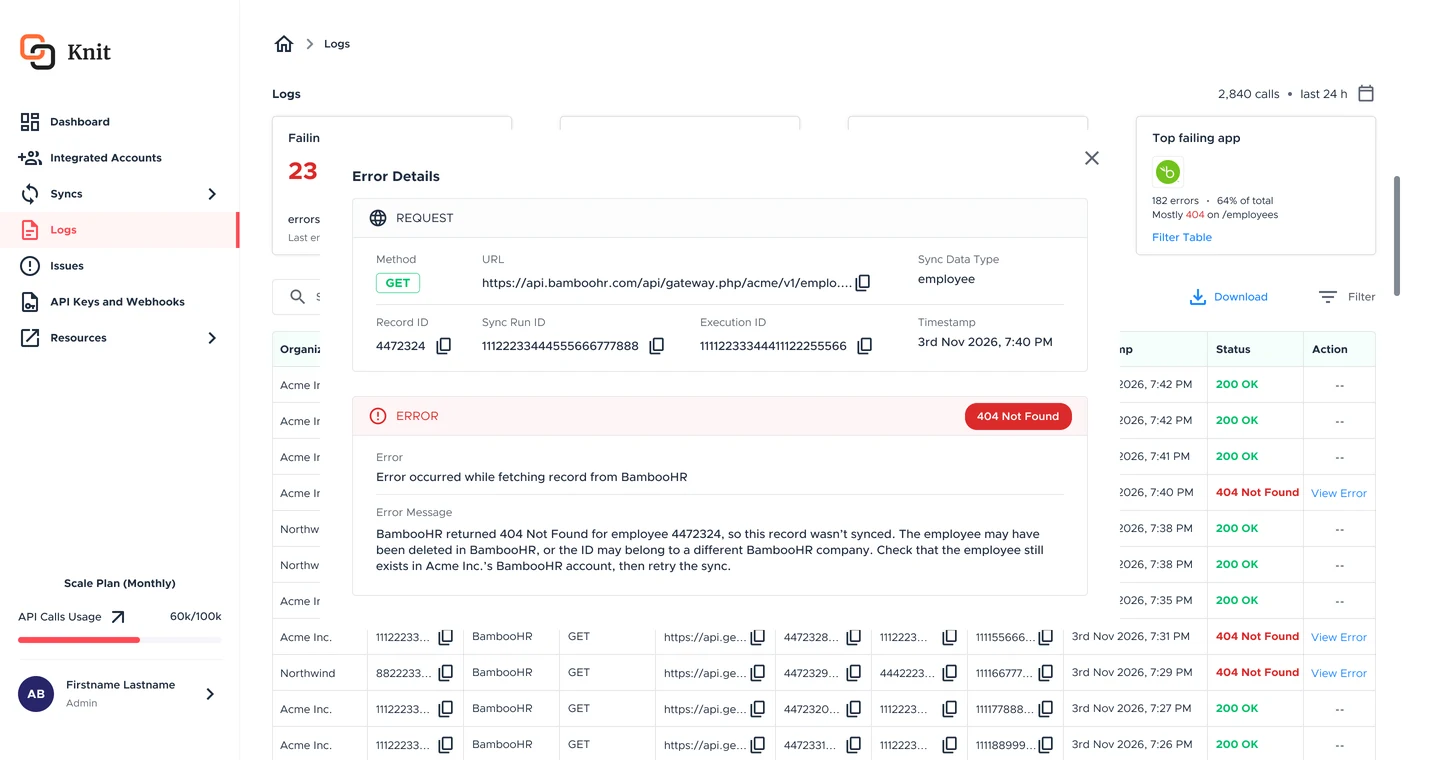
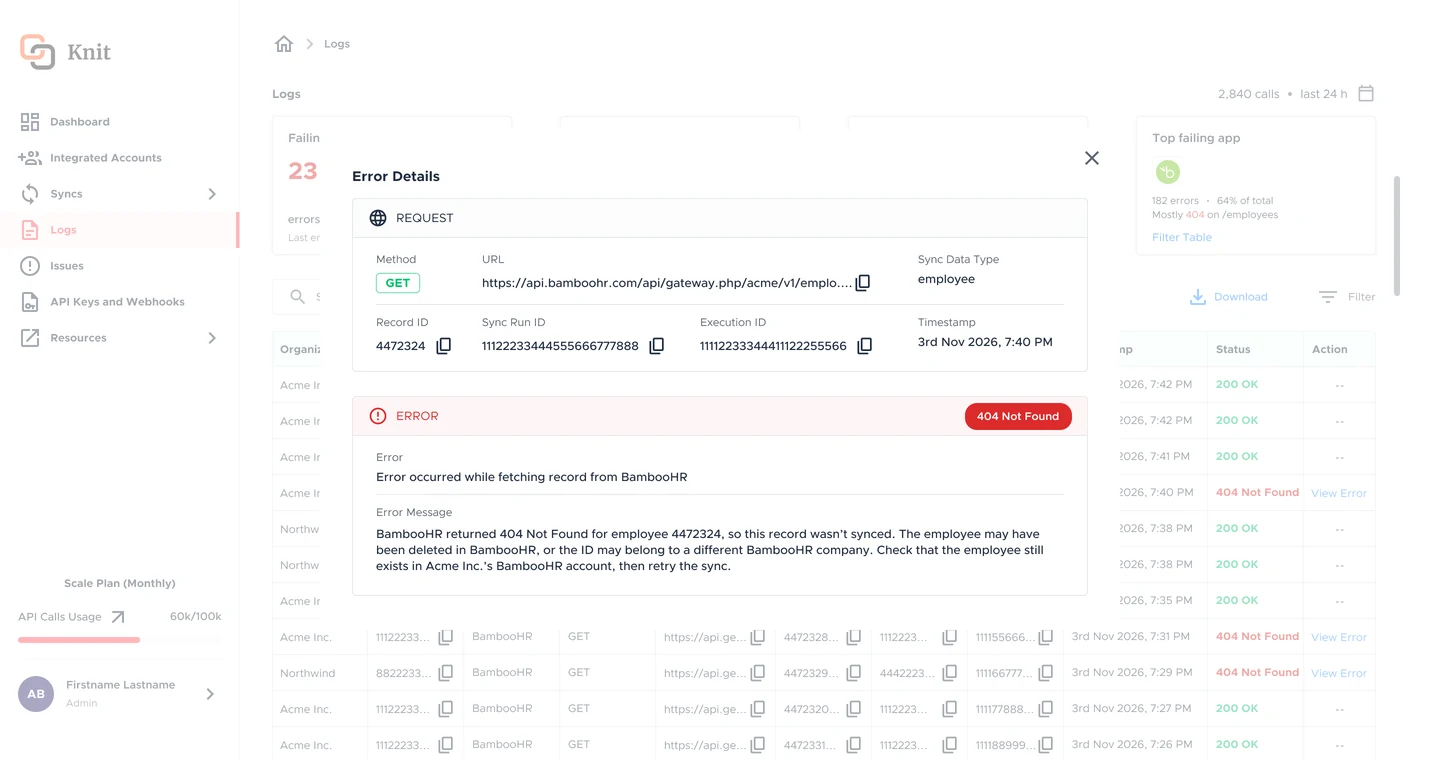
Logs case: fade behind modals and filter; drop dates and ticket-count line (#11)
Claude-Session: https://claude.ai/code/session_01HANcdKuu31yACBcrgzp2pV

diff --git a/index.html b/index.html
@@ -1978,10 +1978,10 @@ const CASES = [
     tldr: { role: "Sole product designer. I designed v1 too.", team: "1 founder, 2 engineers", timeline: "About 2–3 weeks design, about a month build. Live 11 Oct 2026", industry: "B2B SaaS · integrations", problem: "API calls and webhooks lived in two tables, and the reason a call failed sat on a separate page.", result: "About 30% fewer page loads for customers checking their logs, with the same number of people using it" },
     chapters: [
       { name: "Context & problem", head: "Two tables, and a page for every log",
-        body: ["Every call that goes through Knit shows up in Logs: requests to apps like BambooHR, calls our customers make to Knit's API, and the webhooks we send them. Developers open it to find out why an integration misbehaved.", "Logs has been around since early 2023. I designed that first version, and we refreshed its look when Knit became its own company in April 2024. It split API calls and webhooks into two tables behind a toggle, because that's how we expected people to think about them. They didn't. Under the hood a webhook is an API call too, and people kept checking the wrong table for the call they wanted.", "Finding out why something failed was slow as well. A failed call did show up in red, but the reason lived on a separate page. You clicked the URL, waited for that page, read it, came back and found your place in the list again. Customers who couldn't find a failing call raised a ticket or got on a call with us instead."],
+        body: ["Every call that goes through Knit shows up in Logs: requests to apps like BambooHR, calls our customers make to Knit's API, and the webhooks we send them. Developers open it to find out why an integration misbehaved.", "I designed the first version of Logs. It split API calls and webhooks into two tables behind a toggle, because that's how we expected people to think about them. They didn't. Under the hood a webhook is an API call too, and people kept checking the wrong table for the call they wanted.", "Finding out why something failed was slow as well. A failed call did show up in red, but the reason lived on a separate page. You clicked the URL, waited for that page, read it, came back and found your place in the list again. Customers who couldn't find a failing call raised a ticket or got on a call with us instead."],
         custom: ["tpl-lg-v1"] },
       { name: "Research & insight", head: "What the old page told us",
-        lede: "I didn't have ticket counts, so I looked at how the old page was actually used in Heap and Clarity, and went back to customer calls for how people talked about logs.",
+        lede: "I looked at how the old page was actually used in Heap and Clarity, and went back to customer calls for how people talked about logs.",
         insights: [
           ["People only open Logs when something is broken", "When everything works, nobody visits. That changed the job of the page: it's where an investigation starts."],
           ["A fifth of page loads were round trips", "In the four weeks before launch, 22% of customer page loads on Logs were detail pages. A visit that opened logs went through about three of them, each one out to a new page and back."],
